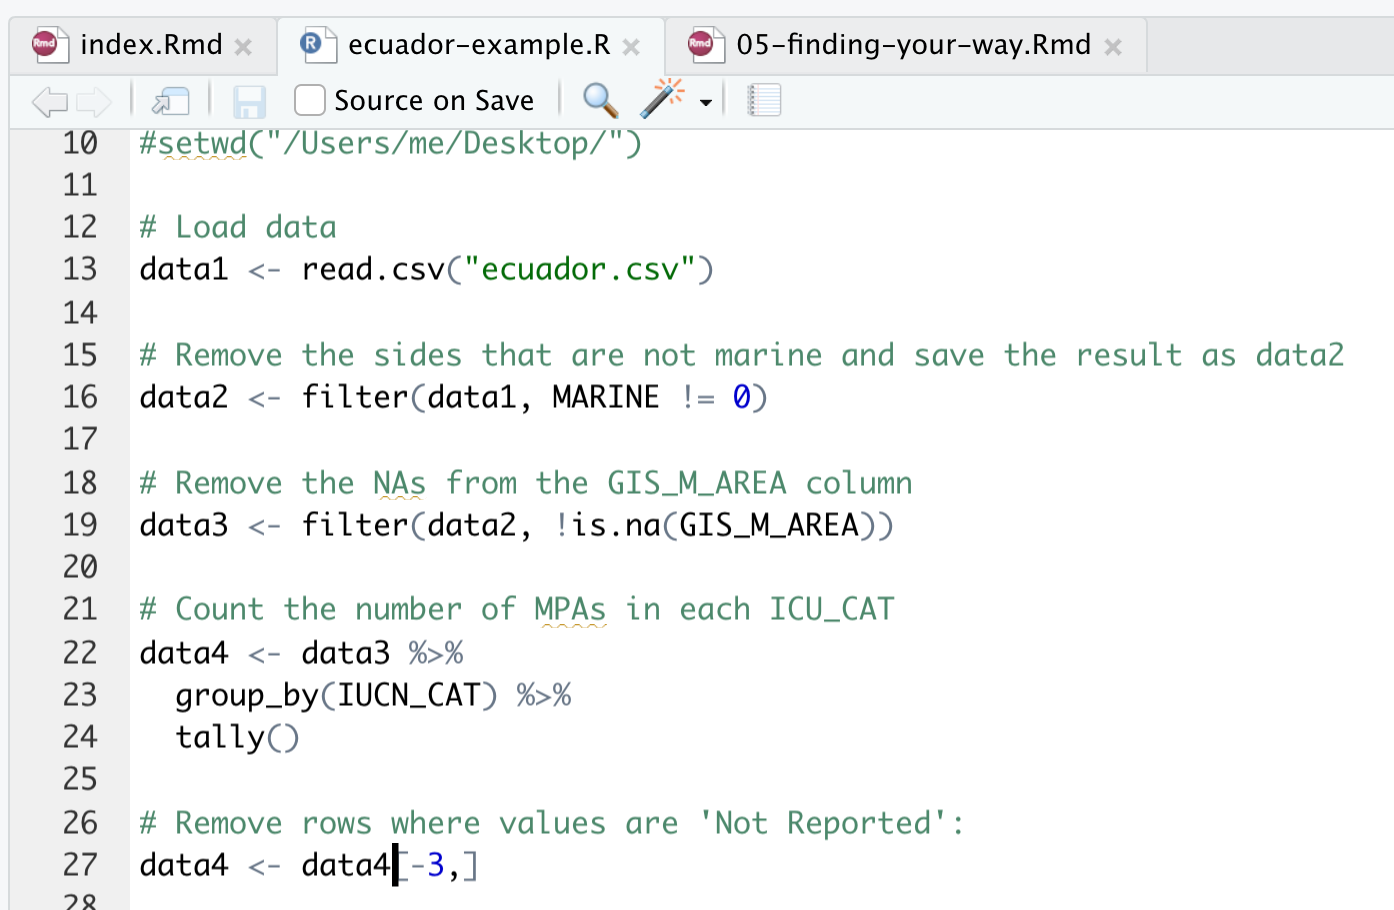
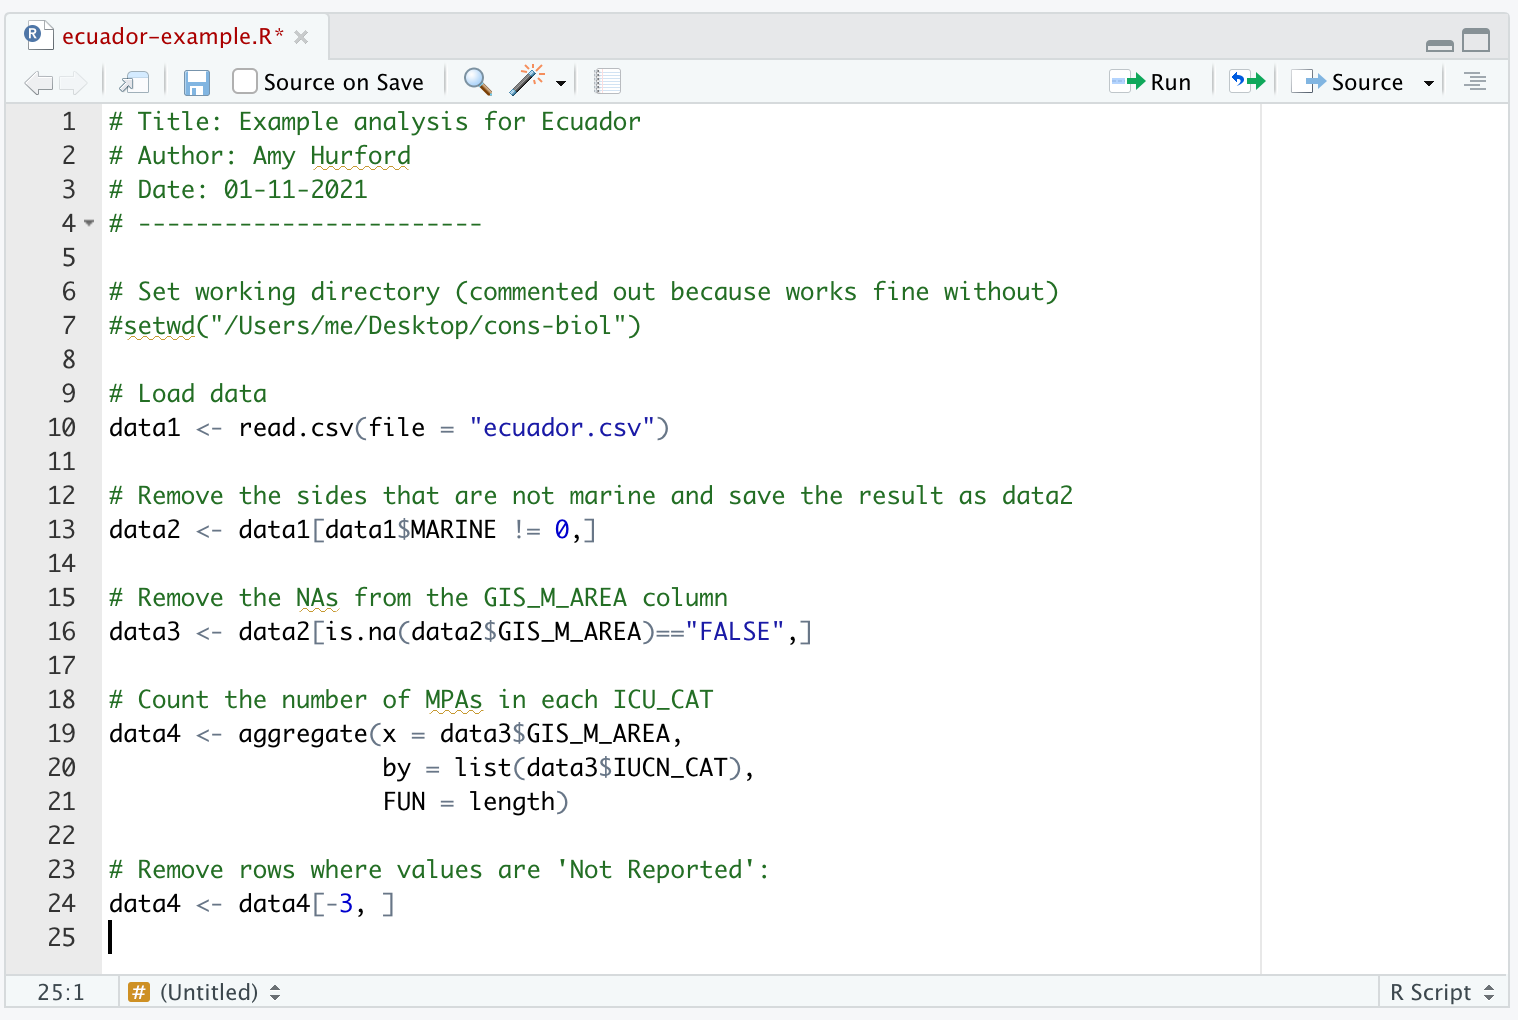
added screenshot

Changed region(s): [[0.0, 0.0, 1.0, 1.0], [0.9254, 0.0308, 0.9871, 0.0923]]

diff --git a/docs/how-to-do-the-analysis-in-r.html b/docs/how-to-do-the-analysis-in-r.html
@@ -177,7 +177,7 @@ code span.wa { color: #60a0b0; font-weight: bold; font-style: italic; } /* Warni
 </ol>
 <div class="sourceCode" id="cb1"><pre class="sourceCode r"><code class="sourceCode r"><span id="cb1-1"><a href="how-to-do-the-analysis-in-r.html#cb1-1"></a>data1 &lt;-<span class="st"> </span><span class="kw">read.csv</span>(<span class="dt">file =</span> <span class="st">&quot;ecuador.csv&quot;</span>)</span></code></pre></div>
 <p>The above command is essential to your analysis so you should add it to your R Script. Your R Script should look something like this:</p>
-<p><img src="figures/first_few.png" width="80%" /></p>
+<p><img src="figures/load_data.png" width="80%" /></p>
 <p>However, you will not have selected Ecuador as your country, so your script will look slightly different (the data for Ecuador are unuseable for this exercise, so the dataset <code>ecuador.csv</code> is example data that are made up).</p>
 <ol start="5" style="list-style-type: decimal">
 <li>In the above screenshot, you can see that I have queried <code>head(data1)</code> in my Console. This was to check that my data had loaded. Steps that are essential to an analysis, I add to my R Script in the Source pane, in the order that I want them to run in. When I want to check something, then I do this in my Console. You want to use the Console like <em>scratch paper</em>, and the R Script as your <em>final work</em>. See <a href="https://ahurford.github.io/quant-guide-all-courses/rstudio.html">Finding your way around R Studio</a> for an explanation of where the Source and Console panes are.</li>
@@ -231,7 +231,7 @@ code span.wa { color: #60a0b0; font-weight: bold; font-style: italic; } /* Warni
 <p>Check your output (in your Console). In particular, look at the <code>MARINE</code> column.</p>
 <div class="sourceCode" id="cb8"><pre class="sourceCode r"><code class="sourceCode r"><span id="cb8-1"><a href="how-to-do-the-analysis-in-r.html#cb8-1"></a>data2<span class="op">$</span>MARINE</span></code></pre></div>
 <p>Are there any <code>0</code>s left in the <code>MARINE</code> column? No? Good, because we want the marine sites, so we do not want any <code>0</code>s in the <code>MARINE</code> column. Now we have found a line of code that works for our analysis so we add it to our R Script:</p>
-<p><img src="figures/filter.png" width="80%" /></p>
+<p><img src="figures/data2.png" width="80%" /></p>
 <p>In the above screen shot you can see that after I source my full R Script, I check to see that I have filtered out the sites that are not marine. If your country doesn’t include any marine sites, you will need to choose another country.</p>
 <ol start="12" style="list-style-type: decimal">
 <li>We want to compute the average size of coastal MPAs for the example Ecuador data. Unfortunately, some of the MPAs have <code>NA</code> instead of a reported size in the <code>GIS_M_AREA</code> column:</li>
@@ -258,7 +258,7 @@ code span.wa { color: #60a0b0; font-weight: bold; font-style: italic; } /* Warni
 <ol start="15" style="list-style-type: decimal">
 <li>The line of code that makes <code>data3</code> is an essential step in the analysis so you will want to add it as the next line of code in your R Script:</li>
 </ol>
-<p><img src="figures/step3.png" width="80%" /></p>
+<p><img src="figures/data3.png" width="80%" /></p>
 <ol start="16" style="list-style-type: decimal">
 <li>We can now calculate the mean and median sizes of the coastal MPAs. Let’s run this code in your Console:</li>
 </ol>
@@ -338,7 +338,7 @@ code span.wa { color: #60a0b0; font-weight: bold; font-style: italic; } /* Warni
 <span id="cb30-4"><a href="how-to-do-the-analysis-in-r.html#cb30-4"></a>     <span class="dt">main =</span> <span class="st">&quot;The size-frequency distribution of MPAs&quot;</span>)   <span class="co"># Histogram without logarithmic axis</span></span></code></pre></div>
 <p><img src="marine-cons_files/figure-html/unnamed-chunk-27-1.png" width="672" /></p>
 <p>Note that the graph appears in the plot window:</p>
-<p><img src="figures/plot.png" width="80%" /></p>
+<p><img src="figures/hist.png" width="80%" /></p>
 <ol start="2" style="list-style-type: decimal">
 <li>We can plot these results on a logarithm scale as:</li>
 </ol>
@@ -378,7 +378,7 @@ code span.wa { color: #60a0b0; font-weight: bold; font-style: italic; } /* Warni
 <p><img src="marine-cons_files/figure-html/unnamed-chunk-33-1.png" width="672" /></p>
 <ol start="5" style="list-style-type: decimal">
 <li><p>The next lines of your R Script would look like this:
-<img src="figures/final.png" width="80%" /></p></li>
+<img src="figures/plots.png" width="80%" /></p></li>
 <li><p>See <a href="https://ahurford.github.io/quant-guide-all-courses/graph.html#export">here</a> for instructions for how to export your graphs.</p></li>
 </ol>
 <!-- **ADVANCED ggplot2 (not required)** -->
